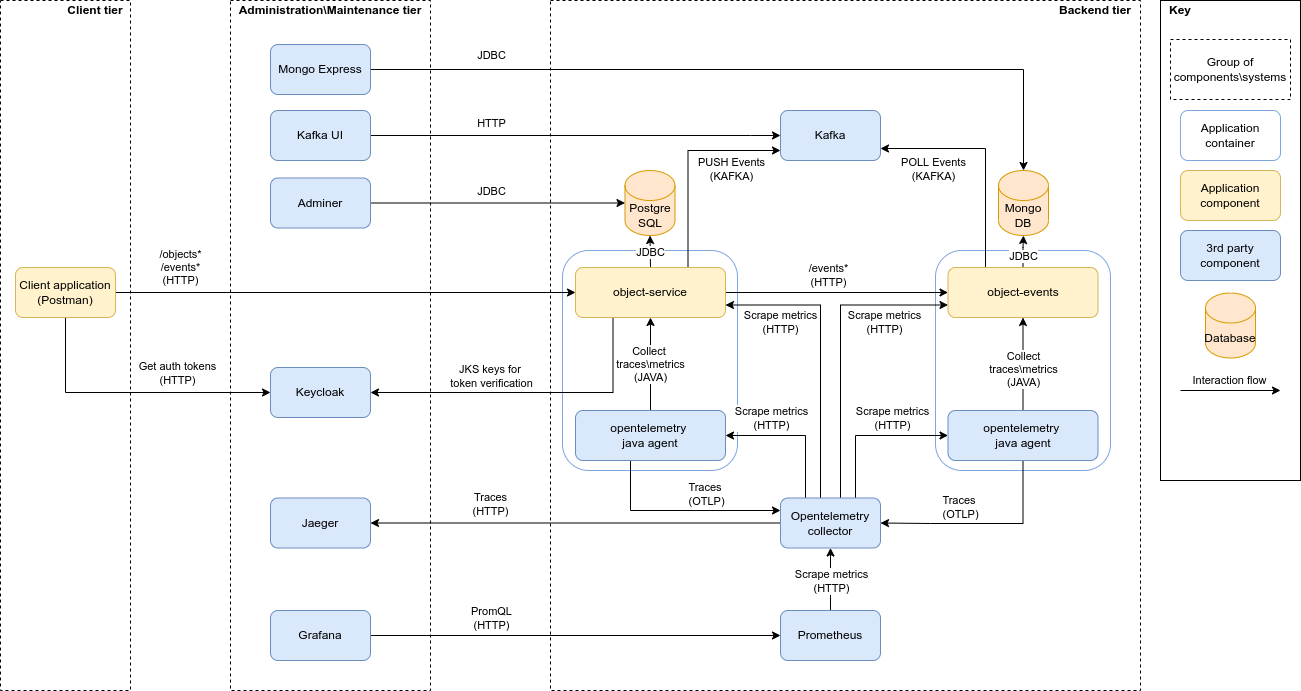
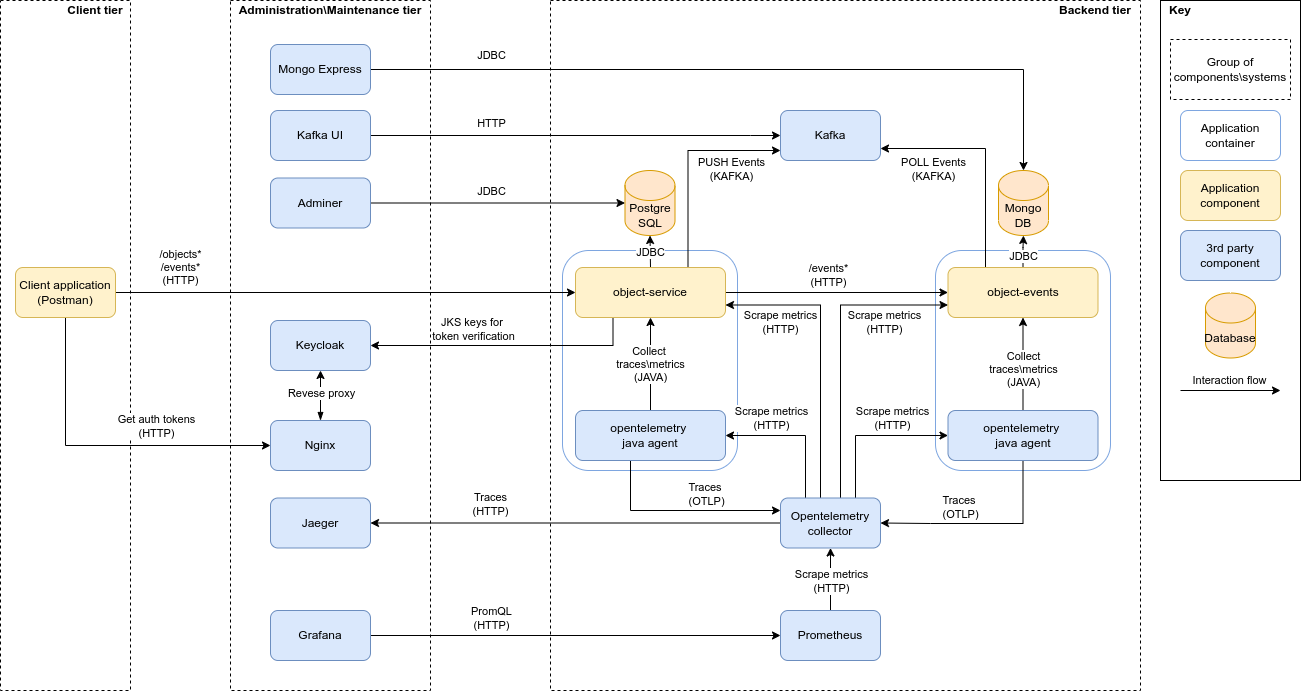
Keycloak for docker refactored to use Nginx as reverse proxy

diff --git a/readme.md b/readme.md
@@ -40,6 +40,7 @@ Simplified data flow is described at [flow diagram](./object-api/src/main/resour
 - MongoDB
 - Kafka
 - Keycloak
+- Nginx
 
 ### Deployment
 
@@ -60,10 +61,6 @@ Simplified data flow is described at [flow diagram](./object-api/src/main/resour
  - Maven
  - JDK 17+
 
-### OS setup 
-To make JWT tokens generated from postman correctly work inside container environment it is required to ensure keycloak issue URL remains the same as it compares iss value during validation phase. For this purpose it is required to extend OS hosts configuration with: 
-```127.0.0.1 keycloak```
-
 ### Docker environment
 
 - Run ```mvn clean install``` to build project artifacts
@@ -80,7 +77,7 @@ To make JWT tokens generated from postman correctly work inside container enviro
 - MongoDB Express - http://localhost:8081 (admin:password)
 - Jaeger - http://localhost:16686
 - Prometheus - http://localhost:9090
-- Grafana - _http://localhost:3000_ (admin:password)
+- Grafana - http://localhost:3000 (admin:password)
 - Keycloak http://keycloak:8083 (admin:password)
 
 ### Minikube environment
